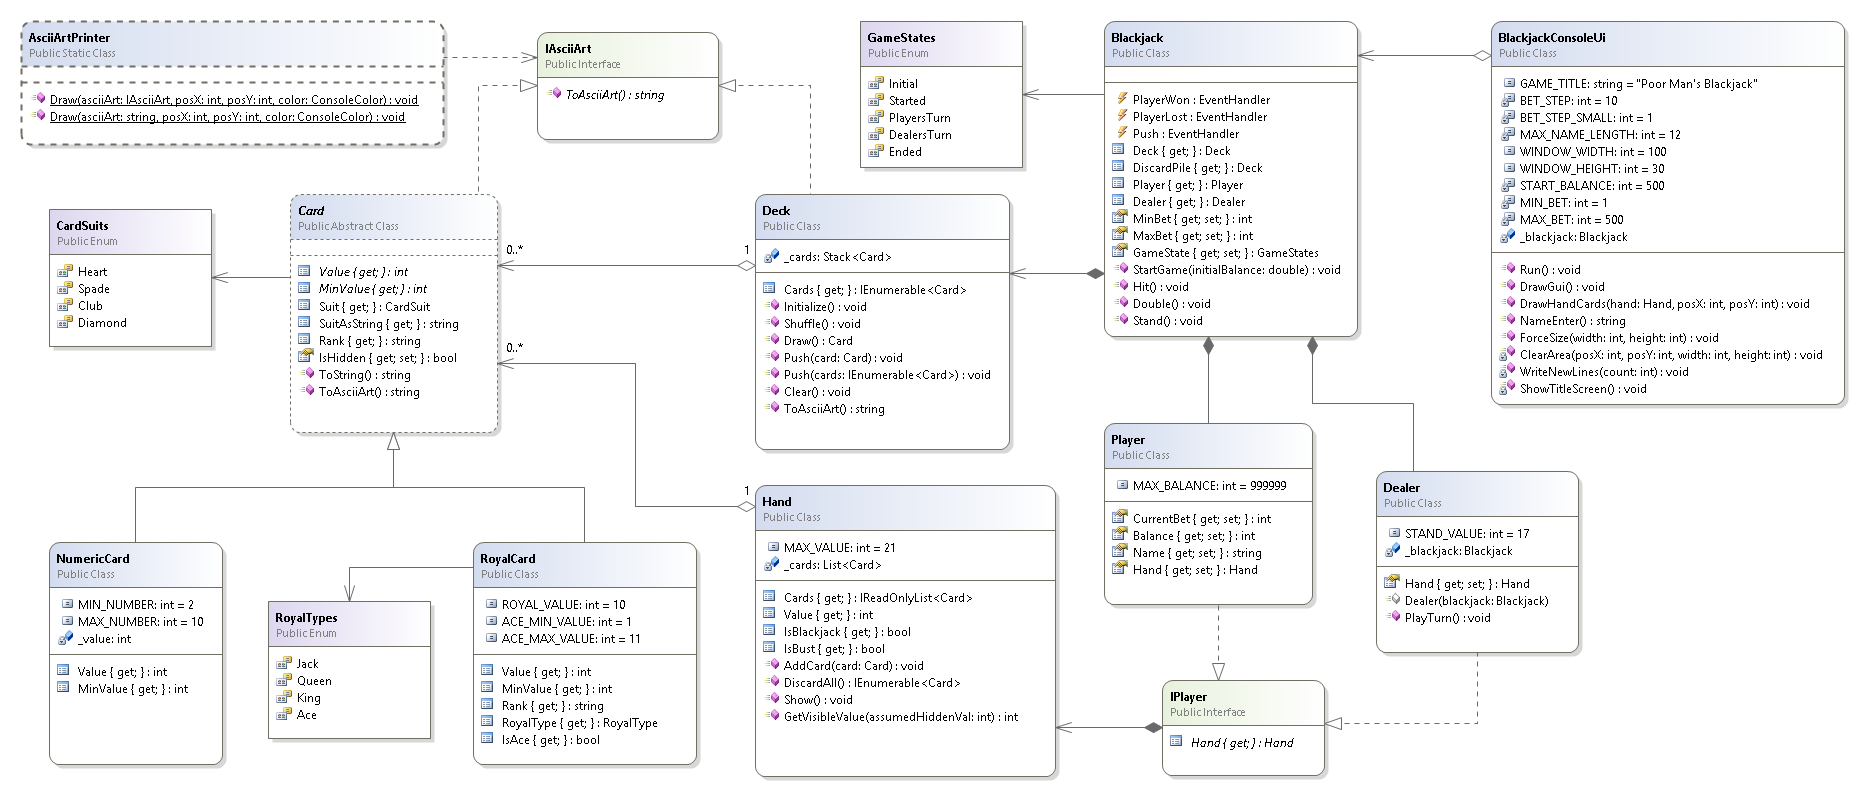
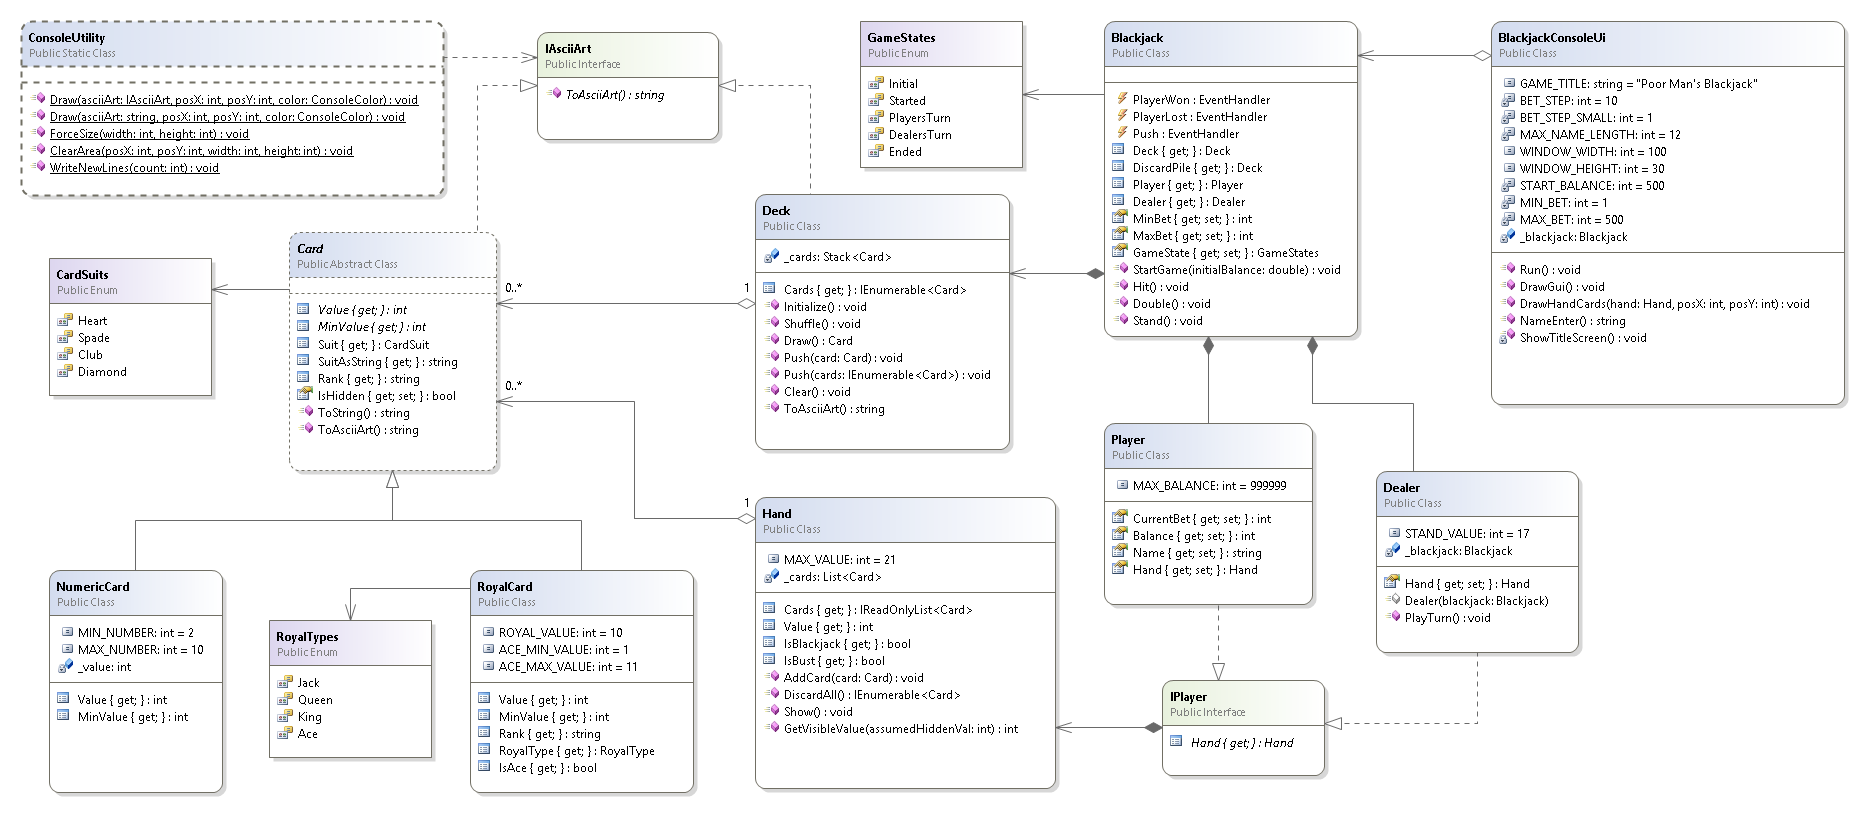
A bit of refactoring. Renamed AsciiArtPrinter class ConsoleUtility and moved some helper methods from the BlackjackConsoleUi class to this utility class.

diff --git a/BlackjackConsole/BlackjackConsoleUi.cs b/BlackjackConsole/BlackjackConsoleUi.cs
@@ -60,7 +60,7 @@ namespace BlackjackConsole {
 
             Console.CursorVisible = false;
 
-            ForceSize(WINDOW_WIDTH, WINDOW_HEIGHT);
+            ConsoleUtility.ForceSize(WINDOW_WIDTH, WINDOW_HEIGHT);
 
             ShowTitleScreen();
 
@@ -70,17 +70,18 @@ namespace BlackjackConsole {
 
             _blackjack.StartGame(START_BALANCE);
 
-            bool hasCanceled = false;
+            ConsoleUtility.ForceSize(WINDOW_WIDTH, WINDOW_HEIGHT);
 
-            ForceSize(WINDOW_WIDTH, WINDOW_HEIGHT);
             DrawGui();
+
+            bool hasCanceled = false;
 
             while (!hasCanceled) {
 
                 ConsoleKeyInfo keyInfo = Console.ReadKey(true);
                 ConsoleKey key = keyInfo.Key;
 
-                ForceSize(WINDOW_WIDTH, WINDOW_HEIGHT);
+                ConsoleUtility.ForceSize(WINDOW_WIDTH, WINDOW_HEIGHT);
 
                 switch (key) {
 
@@ -98,10 +99,10 @@ namespace BlackjackConsole {
                         else if(_blackjack.IsDealAllowed) {
 
                             // Clear dealer's win/lose/push message
-                            ClearArea(0, 1, 16, 2);
+                            ConsoleUtility.ClearArea(0, 1, 16, 2);
 
                             // Clear players's win/lose/push message
-                            ClearArea(0, 17, 16, 2);
+                            ConsoleUtility.ClearArea(0, 17, 16, 2);
 
                             _blackjack.Deal();
                             DrawGui();
@@ -110,10 +111,10 @@ namespace BlackjackConsole {
                         else if(_blackjack.IsGameOver) {
 
                             // Clear dealer's win/lose/push message
-                            ClearArea(0, 1, 16, 2);
+                            ConsoleUtility.ClearArea(0, 1, 16, 2);
 
                             // Clear players's win/lose/push message
-                            ClearArea(0, 17, 16, 2);
+                            ConsoleUtility.ClearArea(0, 17, 16, 2);
 
                             _blackjack.StartGame(START_BALANCE);
                             DrawGui();
@@ -174,19 +175,9 @@ namespace BlackjackConsole {
                 }
 
                 // Flush keyboard buffer | TUTORIAL NOTE: Demonstrate what happens without this!
-                FlushKeyboardBuffer();
+                ConsoleUtility.FlushKeyboardBuffer();
 
             }
-
-        }
-
-        /// <summary>
-        /// Flushes the keyboard buffer by consuming every keystroke currently in the buffer.
-        /// </summary>
-        private void FlushKeyboardBuffer() {
-
-            while (Console.KeyAvailable)
-                Console.ReadKey(true);
 
         }
 
@@ -241,34 +232,7 @@ namespace BlackjackConsole {
 
         }
 
-        private void ClearArea(int posX, int posY, int width, int height) {
-
-            Console.SetCursorPosition(posX, posY);
-
-            for(int i = 0; i < height; i++) {
-
-                for (int j = 0; j < width; j++)
-                    Console.Write(" ");
-
-                Console.CursorLeft = posX;
-                Console.CursorTop++;
-
-            }
-
-        }
-
-        private void ForceSize(int width, int height) {
-
-            Console.WindowWidth = MathUtility.Clamp(width, 1, Console.LargestWindowWidth);
-            Console.WindowHeight = MathUtility.Clamp(height, 1, Console.LargestWindowHeight);
-
-            if (Console.BufferWidth < width)
-                Console.BufferWidth = width;
-
-            if (Console.BufferHeight < height)
-                Console.BufferHeight = height;
-
-        }
+        
 
         private void DrawGui() {
 
@@ -279,24 +243,24 @@ namespace BlackjackConsole {
 
             Console.WriteLine("Dealer: " + _blackjack.Dealer.Hand.GetVisibleValue(1) + "     ");
 
-            AsciiArtPrinter.Draw(_blackjack.Deck, 0, 3, Console.ForegroundColor);
+            ConsoleUtility.DrawAsciiArt(_blackjack.Deck, 0, 3, Console.ForegroundColor);
             string deckLabel = "•Deck: " + _blackjack.Deck.NumberRemainingCards;
             Console.WriteLine(deckLabel.PadRight(11));
 
-            AsciiArtPrinter.Draw(_blackjack.DiscardPile, 12, 3, Console.ForegroundColor);
+            ConsoleUtility.DrawAsciiArt(_blackjack.DiscardPile, 12, 3, Console.ForegroundColor);
             string discardLabel = "•Discards: " + _blackjack.DiscardPile.NumberRemainingCards;
             Console.WriteLine(discardLabel.PadRight(20));
 
-            WriteNewLines(3); // TUTORIAL NOTE: Use individual WriteLine method calls first, then introduce WriteNewLine method
+            ConsoleUtility.WriteNewLines(3); // 
             Console.WriteLine(_blackjack.Player.Name + ": " + _blackjack.Player.Hand.Value + "     ");
-            WriteNewLines(3);
+            ConsoleUtility.WriteNewLines(3);
 
             string balanceLabel = "Balance: $" + _blackjack.Player.Balance;
             Console.WriteLine(balanceLabel.PadRight(16));
 
             string betLabel = "Bet: $" + _blackjack.Player.CurrentBet;
             Console.WriteLine(betLabel.PadRight(16));
-            WriteNewLines(3);
+            ConsoleUtility.WriteNewLines(3);
 
             ConsoleColor originalColor = Console.ForegroundColor;
             Console.ForegroundColor = ConsoleColor.Blue;
@@ -356,10 +320,10 @@ namespace BlackjackConsole {
             Console.Write(optionLine.PadRight(WINDOW_WIDTH));
 
             // Clear dealer's hand area
-            ClearArea(27, 1, 70, 9);
+            ConsoleUtility.ClearArea(27, 1, 70, 9);
 
             // Clear players's hand area
-            ClearArea(27, 16, 70, 9);
+            ConsoleUtility.ClearArea(27, 16, 70, 9);
 
             DrawHandCards(_blackjack.Dealer.Hand, 27, 1);
             DrawHandCards(_blackjack.Player.Hand, 27, 16);
@@ -401,17 +365,10 @@ namespace BlackjackConsole {
 
             foreach(Card card in cards) {
 
-                AsciiArtPrinter.Draw(card, posX, posY, Console.ForegroundColor);
+                ConsoleUtility.DrawAsciiArt(card, posX, posY, Console.ForegroundColor);
                 posX += 7;
 
             }
-
-        }
-
-        private void WriteNewLines(int count) {
-
-            for (int i = 0; i < count; i++)
-                Console.WriteLine();
 
         }
 
@@ -433,7 +390,7 @@ namespace BlackjackConsole {
                 " |____/|_|\\__,_|\\___|_|\\_\\/ |\\__,_|\\___|_|\\_\\      \n" +
                 "                        |__/                       \n";
 
-            AsciiArtPrinter.Draw(titleArt, 24, 2, ConsoleColor.Green);
+            ConsoleUtility.DrawAsciiArt(titleArt, 24, 2, ConsoleColor.Green);
 
             Console.SetCursorPosition(38, 15);
             Console.ForegroundColor = ConsoleColor.Yellow;

diff --git a/BlackjackConsole/ConsoleUtility.cs b/BlackjackConsole/ConsoleUtility.cs
@@ -1,0 +1,89 @@
+using System;
+using System.Collections.Generic;
+using System.Linq;
+using System.Text;
+using System.Threading.Tasks;
+
+namespace BlackjackConsole {
+
+    public static class ConsoleUtility {
+
+        public static void DrawAsciiArt(string asciiArt, int posX, int posY, ConsoleColor color) {
+
+            if (asciiArt == null)
+                return;
+
+            ConsoleColor originalColor = Console.ForegroundColor;
+            Console.ForegroundColor = color;
+
+            string[] asciiRows = asciiArt.Split(new char[] { '\n' });
+
+            for (int y = 0; y < asciiRows.Length; y++) {
+
+                Console.SetCursorPosition(posX, posY + y);
+                Console.Write(asciiRows[y]);
+
+            }
+
+            Console.ForegroundColor = originalColor;
+
+        }
+
+        public static void DrawAsciiArt(IAsciiArt asciiArt, int posX, int posY, ConsoleColor color) {
+
+            if (asciiArt == null)
+                return;
+
+            DrawAsciiArt(asciiArt.ToAsciiArt(), posX, posY, color);
+
+        }
+
+        public static void WriteNewLines(int count) {
+
+            for (int i = 0; i < count; i++)
+                Console.WriteLine();
+
+        }
+
+        public static void ForceSize(int width, int height) {
+
+            Console.WindowWidth = MathUtility.Clamp(width, 1, Console.LargestWindowWidth);
+            Console.WindowHeight = MathUtility.Clamp(height, 1, Console.LargestWindowHeight);
+
+            if (Console.BufferWidth < width)
+                Console.BufferWidth = width;
+
+            if (Console.BufferHeight < height)
+                Console.BufferHeight = height;
+
+        }
+
+        /// <summary>
+        /// Flushes the keyboard buffer by consuming every keystroke currently in the buffer.
+        /// </summary>
+        public static void FlushKeyboardBuffer() {
+
+            while (Console.KeyAvailable)
+                Console.ReadKey(true);
+
+        }
+
+        public static void ClearArea(int posX, int posY, int width, int height) {
+
+            Console.SetCursorPosition(posX, posY);
+
+            for (int i = 0; i < height; i++) {
+
+                for (int j = 0; j < width; j++)
+                    Console.Write(" ");
+
+                Console.CursorLeft = posX;
+                Console.CursorTop++;
+
+            }
+
+        }
+
+    }
+
+}
